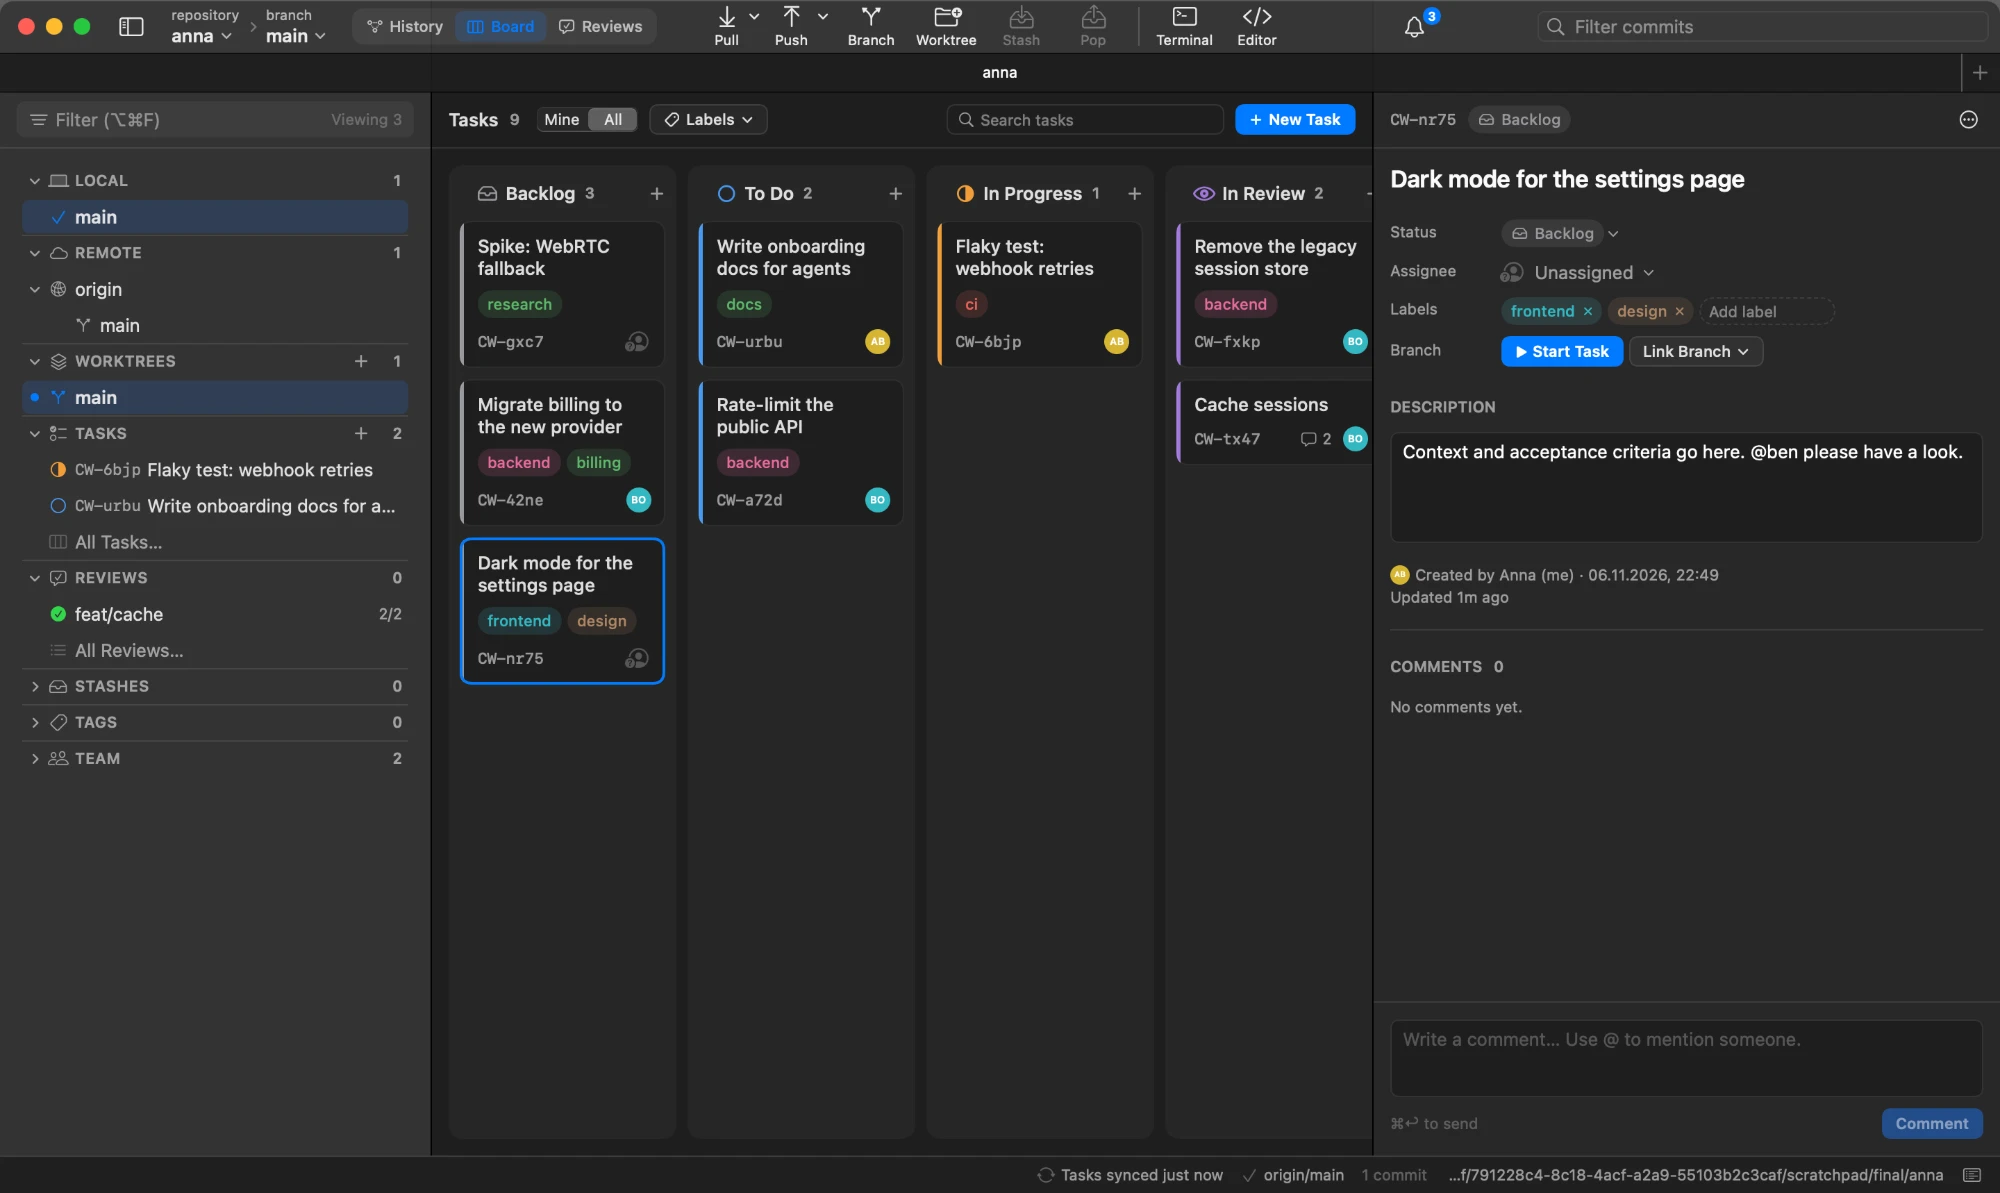
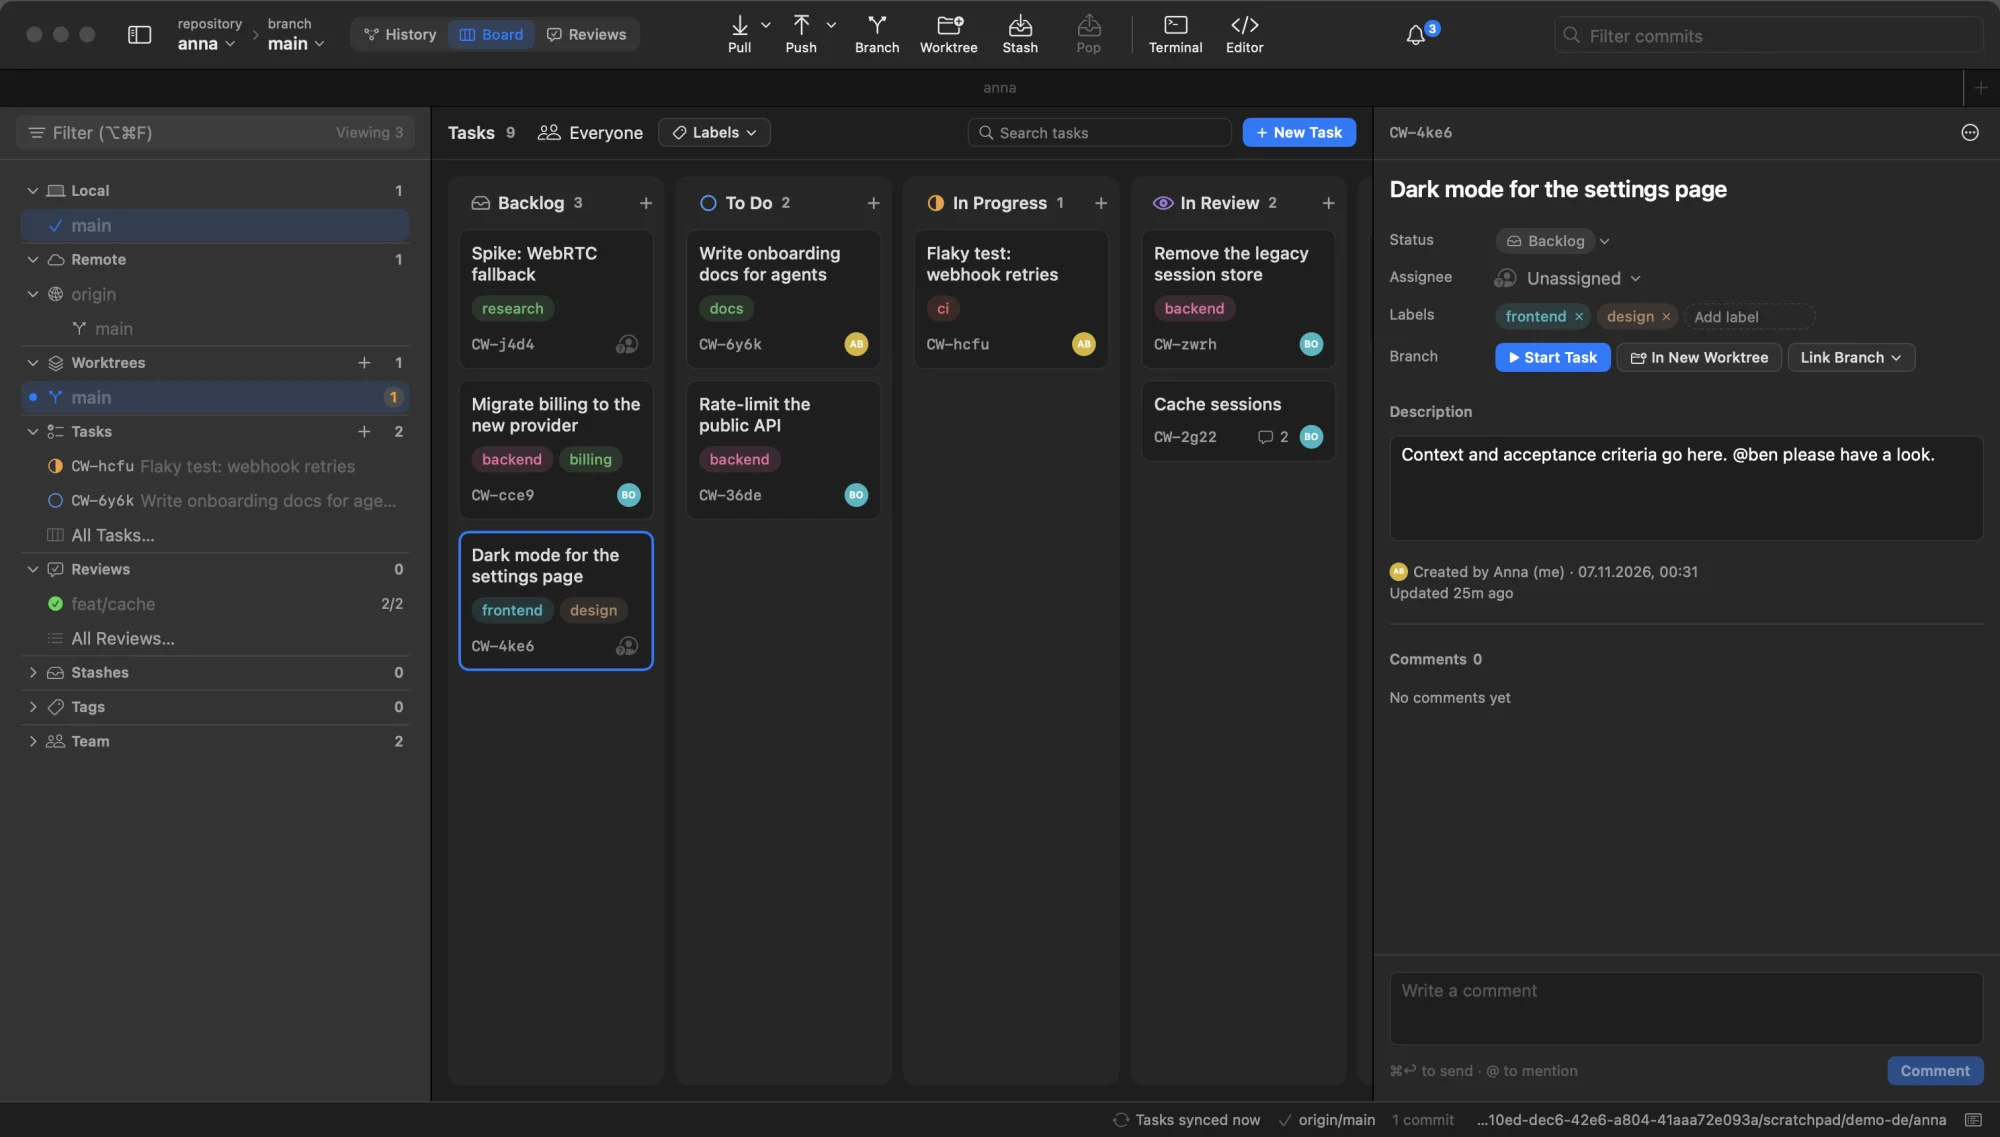
Prepare 0.1.0: license holder, README, screenshots
- LICENSE: copyright smao GmbH, matching the Impressum.
- README: Clone and Undo rows, task shortcuts, honest sign-in wording
  (browser sign-in needs your own OAuth app in 0.1.0; tokens work right
  away), privacy FAQ now mentions the host APIs used by accounts,
  Accounts/ and translations in the layout, make check-translations.
- Fresh history and board screenshots of the current UI.
- PLAN.md: release section reflects the free, build-from-source decision;
  no internal-only wording left.

diff --git a/README.md b/README.md
@@ -6,7 +6,7 @@
 
 <p align="center">
   A small, fast, native Mac git client — with a task board and code reviews that live inside your repo.<br>
-  No accounts. No server. No telemetry. Just <code>git</code>.
+  No sign-up. No server. No telemetry. Just <code>git</code>.
 </p>
 
 <p align="center">
@@ -106,7 +106,9 @@ also drop a folder onto any window.
 | **Diff** | Hunk or split view, intra-line highlights, stage / unstage / discard single hunks. |
 | **Merge / rebase** | Banner with Continue / Skip / Abort, conflicted files, "use mine / theirs". |
 | **Hosts** | "Create pull/merge request" and "Open on …" for GitHub, GitLab, Gitea and Forgejo, including self-hosted. |
-| **Accounts** | Optional. Sign in to GitHub or GitLab in the browser, or paste an access token (also Gitea / Forgejo), and HTTPS push and pull just work. Settings > Accounts. Tokens stay in the Keychain and only git-cowork uses them. For SSH remotes, Create SSH Key makes a key, adds it to your GitHub or GitLab account and uses it in git-cowork without touching `~/.ssh/config`. |
+| **Clone** | Paste a URL, or, with an account added, pick from a filterable list of your repositories and your organizations' or groups'. |
+| **Undo** | ⌘Z takes back the last commit, amend, reset, checkout or branch delete, with plain git commands. Not offered once you've pushed. |
+| **Accounts** | Optional. Paste an access token for GitHub, GitLab, Gitea or Forgejo, and HTTPS push and pull just work. Browser sign-in (OAuth device flow) works too once you register an OAuth app for it; Settings > Accounts explains how. Settings > Accounts. Tokens stay in the Keychain and only git-cowork uses them. For SSH remotes, Create SSH Key makes a key, adds it to your GitHub or GitLab account and uses it in git-cowork without touching `~/.ssh/config`. |
 | **Board** | Shared tasks in Backlog / To Do / In Progress / In Review / Done, with assignee, labels, linked branch and comments. "Start Task" creates the branch here; "In New Worktree" gives it its own folder and tab (handy for agents). Filter by person or label; ⌘← / ⌘→ move the selected task. |
 | **Reviews** | Review requests for a branch: reviewers, verdicts (approved / changes requested), comments, and the branch's changes. |
 | **Inbox** | Tasks assigned to you, review requests, verdicts, @mentions and replies — also as macOS notifications. |
@@ -162,6 +164,8 @@ git-cowork and with plain git only.
 | ⌘↩ | Commit |
 | Esc | Close the diff |
 | ⌥⌘T / ⌥⌘E | Open in Terminal / editor |
+| ⌘Z | Undo the last git action |
+| ⌘← / ⌘→ | Move the selected task to the previous / next column |
 | ⌘J | Command log |
 
 Editor and terminal apps are set in Settings (⌘,).
@@ -178,8 +182,15 @@ agents are making the commits.
 paid notarization to open without warnings. Building locally avoids that and
 takes about a minute.
 
-**Is my data sent anywhere?** No. The app only talks to your git remotes,
-through your own `git`.
+**Is my data sent anywhere?** No telemetry, no server of ours. The app talks
+to your git remotes through your own `git`. If you add an account, it also
+calls that host's API (GitHub, GitLab, Gitea or Forgejo) to check the token,
+list your repositories and upload an SSH key you create. Tokens stay in your
+Keychain.
+
+**Does browser sign-in work out of the box?** Not yet: it needs an OAuth app
+registered on the host, and 0.1.0 doesn't ship one. Use an access token, or
+register your own app as Settings > Accounts describes.
 
 ## Development
 
@@ -188,6 +199,7 @@ make run        # debug build, run from the terminal
 make test       # unit tests (parsers, graph layout, diff, host links, cowork)
 make app        # build dist/git-cowork.app
 make version    # print the version
+make check-translations   # UI text without a German translation
 ```
 
 Builds with the Command Line Tools only; no Xcode project, no dependencies.
@@ -198,10 +210,12 @@ Sources/GitCoworkCore/   pure logic: parsers, graph lane layout, diff, host link
 Sources/GitCowork/
   App/                   entry point, windows/tabs, menus, settings, welcome screen
   Git/                   GitRunner (process + env), RepoModel (state, refresh, file watching),
-                         actions, CoworkStore (refs/cowork/main read/write/sync), notifier
+                         actions, undo, CoworkStore (refs/cowork/main read/write/sync), notifier
+  Accounts/              tokens in the Keychain, browser sign-in, SSH keys, host APIs
   Views/                 Theme (design tokens), Components, History (NSTableView graph),
                          Diff, Inspector, Sidebar, Chrome, Sheets, Cowork (board, reviews, inbox)
-Scripts/                 build-app.sh, make-icon.swift
+Scripts/                 build-app.sh, make-icon.swift, release, update, check-translations
+Resources/               Info.plist, translations (de.lproj)
 ```
 
 How it stays light:
@@ -222,4 +236,4 @@ privately as described in [SECURITY.md](SECURITY.md).
 
 ## License
 
-[MIT](LICENSE)
+[MIT](LICENSE) © 2026 smao GmbH

diff --git a/PLAN.md b/PLAN.md
@@ -183,13 +183,16 @@ Sync without conflicts:
 
 ## 5. Phase 3: open source release
 
-- License (MIT or Apache-2.0), README, screenshots.
-- Developer ID signing and notarization (Apple Developer account, $99/yr) so
-  downloads open without Gatekeeper warnings. Until then, internal builds are
-  ad-hoc signed and built from source with `make install`.
-- GitHub Actions on macOS runners: build and test on every PR, release a zip
-  and DMG on tags. Homebrew cask.
-- Sparkle for auto-updates (optional).
+Done: MIT license, README with screenshots, INSTALL guide, CHANGELOG,
+contributing and security docs, GitHub Actions (build and test on every push
+and PR; a GitHub release with changelog notes for every `vX.Y.Z` tag),
+`make release` / `make update`, English and German UI.
+
+Distribution stays free: no Apple Developer account, so no notarized
+download, DMG, Homebrew cask or Sparkle updates. People build from source
+with `make install` (ad-hoc signed, so Gatekeeper doesn't block it) and
+update with `make update`. Revisit if people without developer tools ask
+for a download.
 
 ## 6. Performance targets
 
@@ -241,9 +244,9 @@ concurrent edits, comments and approvals.
 4. Working copy, diff, commit.
 5. Worktrees panel.
 6. Merge/rebase states, conflict handling.
-7. Packaging (`make app`), dogfood internally for a week.
+7. Packaging (`make app`) and daily use on our own repos.
 8. Cowork: store + sync, then board, then reviews, then notifications. (done)
-9. Next: phase 3 — license, CI on GitHub Actions, optional signing once the repo goes public.
+9. Phase 3: open source release, 0.1.0 (see section 5).
 10. Phase 4 — host sign-in (built), then SSH key and host features (section 10).
 
 ## 10. Phase 4: signing in to GitHub and GitLab
